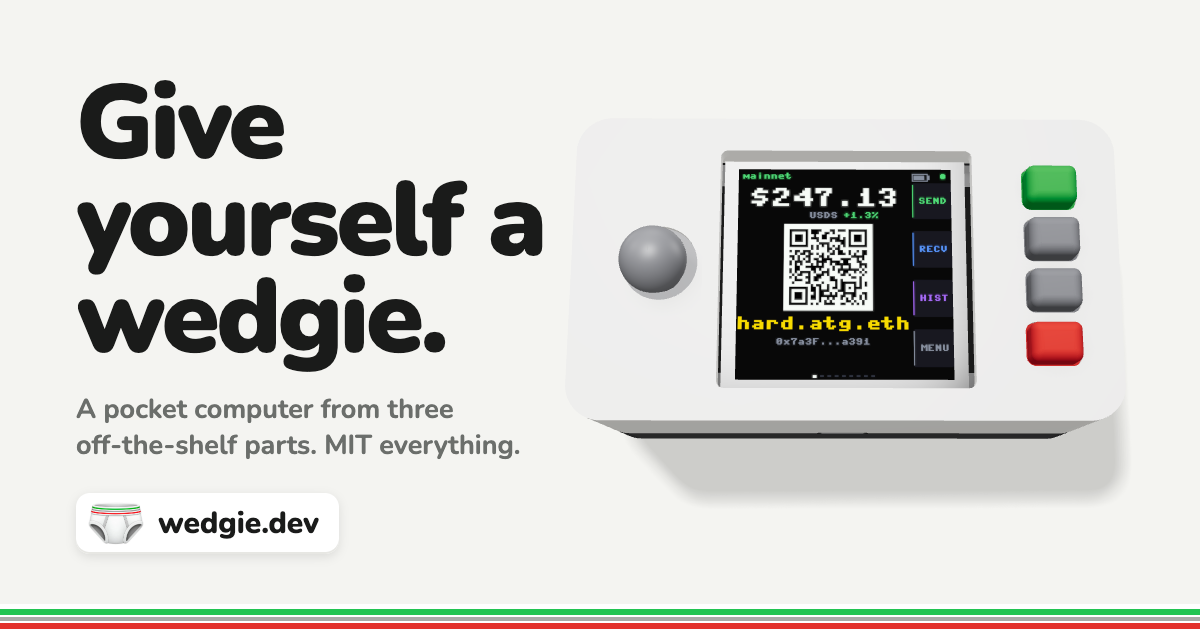
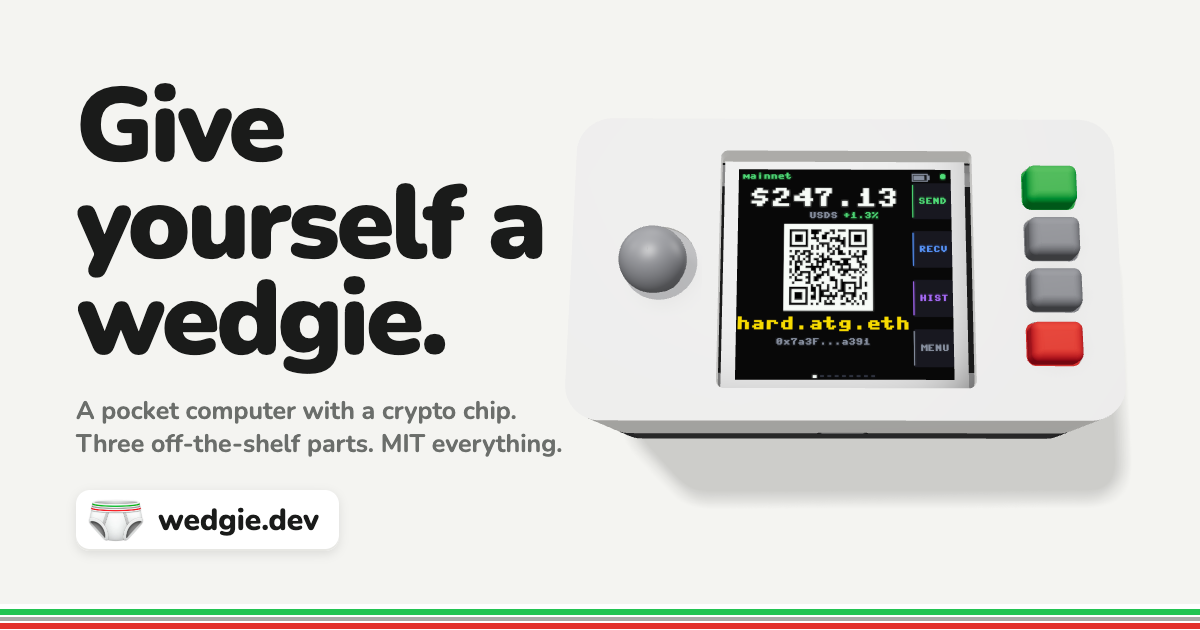
Social card: "A pocket computer with a crypto chip. Three off-the-shelf parts. MIT everything."

diff --git a/index.html b/index.html
@@ -12,15 +12,15 @@
 <meta property="og:url" content="https://wedgie.dev/">
 <meta property="og:site_name" content="wedgie.dev">
 <meta property="og:title" content="Give yourself a wedgie.">
-<meta property="og:description" content="Give yourself a wedgie. A pocket computer from three off-the-shelf parts. MIT everything.">
-<meta property="og:image" content="https://wedgie.dev/img/og.png?v=3">
+<meta property="og:description" content="Give yourself a wedgie. A pocket computer with a crypto chip. Three off-the-shelf parts. MIT everything.">
+<meta property="og:image" content="https://wedgie.dev/img/og.png?v=4">
 <meta property="og:image:width" content="1200">
 <meta property="og:image:height" content="630">
 <meta property="og:image:alt" content="A wedgie: a white 3D-printed pocket computer running a wallet, showing $247.13 and a QR code, next to the words Give yourself a wedgie.">
 <meta name="twitter:card" content="summary_large_image">
 <meta name="twitter:title" content="Give yourself a wedgie.">
-<meta name="twitter:description" content="A pocket computer from three off-the-shelf parts. MIT everything.">
-<meta name="twitter:image" content="https://wedgie.dev/img/og.png?v=3">
+<meta name="twitter:description" content="A pocket computer with a crypto chip. Three off-the-shelf parts. MIT everything.">
+<meta name="twitter:image" content="https://wedgie.dev/img/og.png?v=4">
 <meta name="twitter:image:alt" content="A wedgie: a white 3D-printed pocket computer running a wallet, showing $247.13 and a QR code.">
 <style>
 /* The loader. Same picture as the device's boot screen (picowallet firmware/splash.py + loader.py):

diff --git a/tools/og/index.html b/tools/og/index.html
@@ -8,9 +8,9 @@
 <style>
   html, body { margin: 0; width: 1200px; height: 630px; overflow: hidden; background: #f4f4f1; }
   body { font-family: "Nunito Variable", sans-serif; color: #1a1b1a; position: relative; }
-  .copy { position: absolute; left: 76px; top: 0; bottom: 0; width: 470px; display: flex; flex-direction: column; justify-content: center; }
+  .copy { position: absolute; left: 76px; top: 0; bottom: 0; width: 520px; display: flex; flex-direction: column; justify-content: center; }
   h1 { margin: 0; font-weight: 900; font-size: 104px; line-height: .93; letter-spacing: -.03em; }
-  p { margin: 26px 0 0; font-weight: 700; font-size: 27px; line-height: 1.3; color: #6b6e6b; }
+  p { margin: 26px 0 0; font-weight: 700; font-size: 25px; line-height: 1.3; color: #6b6e6b; }
   .tag { margin-top: 30px; align-self: flex-start; display: flex; align-items: center; gap: 14px;
     background: #fff; border-radius: 14px; padding: 9px 20px 9px 12px; font-weight: 800; font-size: 30px;
     box-shadow: inset 0 -2px 0 #e7e7e3, 0 3px 10px rgba(0,0,0,.1); }
@@ -23,7 +23,7 @@
 <body>
   <div class="copy">
     <h1>Give yourself a wedgie.</h1>
-    <p>A pocket computer from three <span style="white-space:nowrap">off-the-shelf</span> parts. MIT everything.</p>
+    <p>A pocket computer with a crypto chip.<br>Three off-the-shelf parts. MIT everything.</p>
     <div class="tag"><img src="/img/sticker.webp" alt="">wedgie.dev</div>
   </div>
   <div id="dev"></div>
